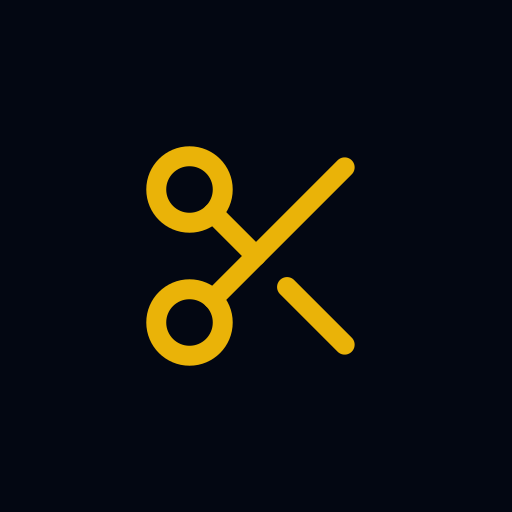
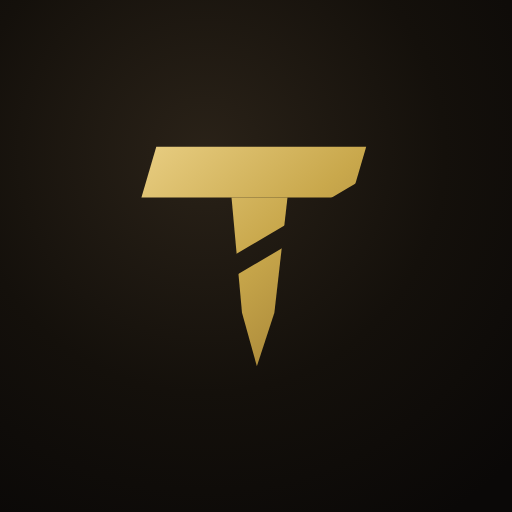
feat(brand): nova marca do Trimly — "T de corte"
Troca a tesoura amarela por um monograma: T com barra inclinada, haste
afinando em lâmina e um corte diagonal atravessando a letra, em dourado
sobre ladrilho escuro com aro dourado. Componente <TrimlyMark> usado na
sidebar (dono e super admin), topo do celular, login e cadastro; o fundo do
login desenha a mesma marca. Favicon, ícones do PWA (192/512) e cores de
tema do navegador/app passam pra identidade escura + dourado. Os
placeholders de barbearia sem logo (área pública) seguem com a tesoura.

Claude-Session: https://claude.ai/code/session_012kRcstDXdSaQ9isaxCnVtN

diff --git a/frontend/barbersaas-web/src/components/ui/glass/BrandBackdrop.tsx b/frontend/barbersaas-web/src/components/ui/glass/BrandBackdrop.tsx
@@ -1,19 +1,14 @@
 import { motion, useReducedMotion } from 'framer-motion'
 import { EASE } from '../../motion/tokens'
+import { TRIMLY_T } from './trimlyMarkPaths'
 
-// Traços da marca Trimly (tesoura) — mesmos do favicon e da sidebar.
-const MARK_PATHS = [
-  { type: 'circle', cx: 6, cy: 6, r: 3 },
-  { type: 'path', d: 'M8.12 8.12 12 12' },
-  { type: 'path', d: 'M20 4 8.12 15.88' },
-  { type: 'circle', cx: 6, cy: 18, r: 3 },
-  { type: 'path', d: 'M14.8 14.8 20 20' },
-] as const
+// Contornos da marca Trimly ("T de corte"): barra, haste em lâmina e o corte diagonal.
+const MARK_PATHS = [TRIMLY_T.bar, TRIMLY_T.stem, TRIMLY_T.slice]
 
 /**
  * Fundo com a cara da marca (telas de login): aurora dourada do Trimly atrás
  * do cartão, listras finas em diagonal (poste de barbearia) que somem nas
- * bordas e a tesoura gigante em traço fino que se desenha uma vez na entrada.
+ * bordas e a marca (T de corte) gigante em traço fino que se desenha uma vez na entrada.
  * Depois fica estático (o cartão de vidro não recalcula blur a cada frame).
  */
 export function BrandBackdrop() {
@@ -27,25 +22,21 @@ export function BrandBackdrop() {
       <div className="g-brand-glow g-brand-glow--cool" />
       <div className="g-brand-stripes" />
 
-      <svg className="g-brand-mark-xl" viewBox="0 0 24 24" fill="none">
+      <svg className="g-brand-mark-xl" viewBox="0 0 48 48" fill="none">
         <defs>
-          <linearGradient id="g-brand-stroke" x1="0" y1="0" x2="24" y2="24" gradientUnits="userSpaceOnUse">
-            <stop offset="0%" stopColor="#E9CF86" />
+          <linearGradient id="g-brand-stroke" x1="8" y1="6" x2="40" y2="42" gradientUnits="userSpaceOnUse">
+            <stop offset="0%" stopColor="#F4DC97" />
             <stop offset="55%" stopColor="#C9A84C" />
             <stop offset="100%" stopColor="#8A6A24" />
           </linearGradient>
         </defs>
-        {MARK_PATHS.map((p, i) => {
-          const common = {
-            stroke: 'url(#g-brand-stroke)', strokeWidth: 0.11, strokeLinecap: 'round' as const, strokeLinejoin: 'round' as const,
-            initial: { pathLength: reduce ? 1 : 0, opacity: reduce ? 0 : 1 },
-            animate: { pathLength: 1, opacity: 1 },
-            transition: reduce ? { duration: 0.15 } : { duration: 1.6, ease: EASE, delay: 0.35 + i * 0.14 },
-          }
-          return p.type === 'circle'
-            ? <motion.circle key={i} cx={p.cx} cy={p.cy} r={p.r} {...common} />
-            : <motion.path key={i} d={p.d} {...common} />
-        })}
+        {MARK_PATHS.map((d, i) => (
+          <motion.path key={i} d={d}
+            stroke="url(#g-brand-stroke)" strokeWidth={0.2} strokeLinecap="round" strokeLinejoin="round"
+            initial={{ pathLength: reduce ? 1 : 0, opacity: reduce ? 0 : 1 }}
+            animate={{ pathLength: 1, opacity: 1 }}
+            transition={reduce ? { duration: 0.15 } : { duration: 1.6, ease: EASE, delay: 0.35 + i * 0.2 }} />
+        ))}
       </svg>
 
       <div className="g-ambient-grain" />

diff --git a/frontend/barbersaas-web/src/components/ui/glass/TrimlyMark.tsx b/frontend/barbersaas-web/src/components/ui/glass/TrimlyMark.tsx
@@ -1,0 +1,35 @@
+import { useId } from 'react'
+import { TRIMLY_T } from './trimlyMarkPaths'
+
+// Marca do Trimly: "T de corte" — barra inclinada, haste afinando em lâmina e
+// um corte diagonal atravessando a letra (o "trim"). Dourado sobre ladrilho
+// escuro com aro dourado. Mesmo desenho do favicon e dos ícones do app.
+
+export function TrimlyMark({ size = 36, className, title }: { size?: number; className?: string; title?: string }) {
+  const id = useId().replace(/[^a-zA-Z0-9_-]/g, '')
+  return (
+    <svg width={size} height={size} viewBox="0 0 48 48" className={`g-trimly-mark ${className ?? ''}`}
+      role={title ? 'img' : undefined} aria-label={title} aria-hidden={title ? undefined : true}>
+      <defs>
+        <linearGradient id={`${id}-gold`} x1="8" y1="6" x2="40" y2="42" gradientUnits="userSpaceOnUse">
+          <stop offset="0" stopColor="#F4DC97" /><stop offset=".5" stopColor="#C9A84C" /><stop offset="1" stopColor="#8E6C27" />
+        </linearGradient>
+        <linearGradient id={`${id}-tile`} x1="0" y1="0" x2="48" y2="48" gradientUnits="userSpaceOnUse">
+          <stop offset="0" stopColor="#231D15" /><stop offset="1" stopColor="#0B0907" />
+        </linearGradient>
+        <linearGradient id={`${id}-rim`} x1="0" y1="0" x2="48" y2="48" gradientUnits="userSpaceOnUse">
+          <stop offset="0" stopColor="#E9CF86" stopOpacity=".75" /><stop offset=".6" stopColor="#C9A84C" stopOpacity=".25" /><stop offset="1" stopColor="#C9A84C" stopOpacity=".55" />
+        </linearGradient>
+        <mask id={`${id}-cut`}>
+          <rect width="48" height="48" fill="#fff" />
+          <path d={TRIMLY_T.slice} stroke="#000" strokeWidth="2.1" />
+        </mask>
+      </defs>
+      <rect x=".75" y=".75" width="46.5" height="46.5" rx="13" fill={`url(#${id}-tile)`} stroke={`url(#${id}-rim)`} strokeWidth="1.5" />
+      <g mask={`url(#${id}-cut)`} fill={`url(#${id}-gold)`}>
+        <path d={TRIMLY_T.bar} />
+        <path d={TRIMLY_T.stem} />
+      </g>
+    </svg>
+  )
+}

diff --git a/frontend/barbersaas-web/src/pages/auth/RegisterPage.tsx b/frontend/barbersaas-web/src/pages/auth/RegisterPage.tsx
@@ -1,6 +1,6 @@
 import { useState } from 'react'
 import { useNavigate, Link } from 'react-router-dom'
-import { Scissors, Check, MailCheck, User, Building2, ArrowLeft } from 'lucide-react'
+import { Check, MailCheck, User, Building2, ArrowLeft } from 'lucide-react'
 import { useRegister } from '../../features/auth/authApi'
 import { Card } from '../../components/ui/Card'
 import { Button } from '../../components/ui/Button'
@@ -9,6 +9,7 @@ import { toE164BR, isValidBRPhone, onlyDigits, maskCPF, maskCNPJ, isValidCPF, is
 import toast from 'react-hot-toast'
 import { apiErrorMessage } from '../../lib/apiError'
 import { AmbientBackground } from '../../components/ui/glass/AmbientBackground'
+import { TrimlyMark } from '../../components/ui/glass/TrimlyMark'
 
 type PersonType = 'PF' | 'PJ'
 
@@ -104,9 +105,7 @@ export default function RegisterPage() {
           <ArrowLeft size={16} /> Voltar para o login
         </Link>
         <div className="flex flex-col items-center mb-8">
-          <div className="w-14 h-14 flex items-center justify-center mb-4" style={{ background: 'var(--tenant-primary)', borderRadius: 'var(--radius-lg)' }}>
-            <Scissors size={28} style={{ color: 'var(--accent-fg)' }} />
-          </div>
+          <TrimlyMark size={56} className="mx-auto mb-3" />
           <h1 style={{ fontFamily: 'var(--font-display)', fontSize: 'var(--text-2xl)', fontWeight: 700, color: 'var(--text-primary)' }}>Criar sua Barbearia</h1>
           <p className="ds-page-sub">14 dias grátis, sem cartão de crédito</p>
         </div>

diff --git a/frontend/barbersaas-web/src/components/layout/AdminLayout.tsx b/frontend/barbersaas-web/src/components/layout/AdminLayout.tsx
@@ -2,7 +2,8 @@ import { useState, useEffect, useRef } from 'react'
 import { useQuery } from '@tanstack/react-query'
 import { useLocation, useNavigate } from 'react-router-dom'
 import { AnimatePresence, motion } from 'framer-motion'
-import { Scissors, ShieldCheck } from 'lucide-react'
+import { ShieldCheck } from 'lucide-react'
+import { TrimlyMark } from '../ui/glass/TrimlyMark'
 import { useAuthStore } from '../../store/authStore'
 import { isSuperAdmin } from '../../lib/roles'
 import { api } from '../../lib/api'
@@ -111,9 +112,7 @@ export default function AdminLayout({ children }: { children: React.ReactNode })
         {/* Topbar */}
         <header className="g-topbar flex items-center justify-between gap-3 px-4 lg:px-8 flex-shrink-0"
           style={{ paddingTop: 'env(safe-area-inset-top)', height: 'calc(64px + env(safe-area-inset-top))' }}>
-          <span className="g-brand-mark lg:hidden" style={{ width: 30, height: 30, borderRadius: 10 }} aria-hidden="true">
-            <Scissors size={15} strokeWidth={2} />
-          </span>
+          <TrimlyMark size={32} className="lg:hidden flex-shrink-0" />
           <div className="flex-1 min-w-0">
             <AnimatePresence mode="wait" initial={false}>
               <motion.h1 key={pageTitle} className="g-topbar-title truncate"

diff --git a/frontend/barbersaas-web/src/pages/auth/LoginPage.tsx b/frontend/barbersaas-web/src/pages/auth/LoginPage.tsx
@@ -1,6 +1,7 @@
 import { useState, useEffect } from 'react'
 import { useNavigate } from 'react-router-dom'
-import { Eye, EyeOff, Mail, Lock, AlertCircle, ArrowRight, Scissors } from 'lucide-react'
+import { Eye, EyeOff, Mail, Lock, AlertCircle, ArrowRight } from 'lucide-react'
+import { TrimlyMark } from '../../components/ui/glass/TrimlyMark'
 import { useLogin } from '../../features/auth/authApi'
 import { homeRouteFor } from '../../lib/roles'
 import { Button } from '../../components/ui/Button'
@@ -60,9 +61,7 @@ export default function LoginPage() {
           {/* Marca */}
           <Stagger delay={0.2} stagger={0.07}>
           <StaggerItem className="flex flex-col items-center mb-8 text-center">
-            <span className="g-brand-mark mb-4" style={{ width: 52, height: 52, borderRadius: 16 }} aria-hidden="true">
-              <Scissors size={24} strokeWidth={2} />
-            </span>
+            <TrimlyMark size={60} className="mb-4" />
             <h1 className="login-brand" style={{ fontSize: '34px', lineHeight: 1.1 }}>Trimly</h1>
             <p className="mt-2" style={{ fontSize: 'var(--text-sm)', color: 'rgba(235,230,218,0.72)' }}>
               Gestão e agendamento para barbearias

diff --git a/frontend/barbersaas-web/src/components/layout/nav/Sidebar.tsx b/frontend/barbersaas-web/src/components/layout/nav/Sidebar.tsx
@@ -2,7 +2,8 @@ import { useEffect, useRef, useState, type ReactNode } from 'react'
 import { createPortal } from 'react-dom'
 import { Link, useLocation } from 'react-router-dom'
 import { AnimatePresence, LayoutGroup, motion, useReducedMotion } from 'framer-motion'
-import { PanelLeftClose, Pin, Scissors } from 'lucide-react'
+import { PanelLeftClose, Pin } from 'lucide-react'
+import { TrimlyMark } from '../../ui/glass/TrimlyMark'
 import { DUR, EASE } from '../../motion/tokens'
 import { ICON, isActive, type NavGroup } from './navConfig'
 
@@ -66,7 +67,7 @@ export function Sidebar({ groups, pinned, onTogglePin, brandSub, counts = {}, fo
       >
         {/* Marca */}
         <div className="g-side-brand">
-          <span className="g-brand-mark"><Scissors size={17} strokeWidth={2} /></span>
+          <TrimlyMark size={36} className="flex-shrink-0" />
           <div className="g-side-label min-w-0">
             <p className="g-brand-name leading-tight">Trimly</p>
             {brandSub && <p className="g-side-sub truncate">{brandSub}</p>}

diff --git a/frontend/barbersaas-web/index.html b/frontend/barbersaas-web/index.html
@@ -4,7 +4,7 @@
     <meta charset="UTF-8" />
     <link rel="icon" type="image/svg+xml" href="/favicon.svg" />
     <meta name="viewport" content="width=device-width, initial-scale=1.0, viewport-fit=cover" />
-    <meta name="theme-color" content="#eab308" />
+    <meta name="theme-color" content="#0B0907" />
     <meta name="description" content="Gestão e agendamento para barbearias" />
     <meta name="mobile-web-app-capable" content="yes" />
     <meta name="apple-mobile-web-app-capable" content="yes" />

diff --git a/frontend/barbersaas-web/vite.config.ts b/frontend/barbersaas-web/vite.config.ts
@@ -17,8 +17,8 @@ export default defineConfig({
         description: 'Gestão e agendamento para barbearias',
         start_url: '/admin',
         display: 'standalone',
-        background_color: '#030712',
-        theme_color: '#eab308',
+        background_color: '#09080B',
+        theme_color: '#0B0907',
         orientation: 'portrait-primary',
         lang: 'pt-BR',
         categories: ['business', 'productivity'],

diff --git a/frontend/barbersaas-web/src/styles/glass.css b/frontend/barbersaas-web/src/styles/glass.css
@@ -572,6 +572,7 @@ textarea.g-input { height: auto; min-height: 96px; padding: 10px 14px; resize: v
   color: var(--accent-fg);
   box-shadow: inset 0 1px 0 rgba(255, 255, 255, 0.35), var(--g-accent-glow);
 }
+.g-trimly-mark { display: block; filter: drop-shadow(0 6px 16px rgba(201, 168, 76, 0.28)); }
 .g-brand-name { font-weight: 700; font-size: 16px; letter-spacing: -0.02em; color: var(--g-fg-1); }
 
 .g-side {

diff --git a/frontend/barbersaas-web/src/components/ui/glass/trimlyMarkPaths.ts b/frontend/barbersaas-web/src/components/ui/glass/trimlyMarkPaths.ts
@@ -1,0 +1,7 @@
+// Traços da marca Trimly ("T de corte"), em viewBox 0 0 48 48. Usados pelo
+// <TrimlyMark>, pelo fundo do login e pelos ícones (favicon / app).
+export const TRIMLY_T = {
+  bar: 'M12.6 12.5H36.6L34.9 18.3H10.9Z',
+  stem: 'M21.2 18.3H27.6L26.1 31.5L24.1 37.6L22.4 31.5Z',
+  slice: 'M9 33.5L39.5 15.5',
+}
